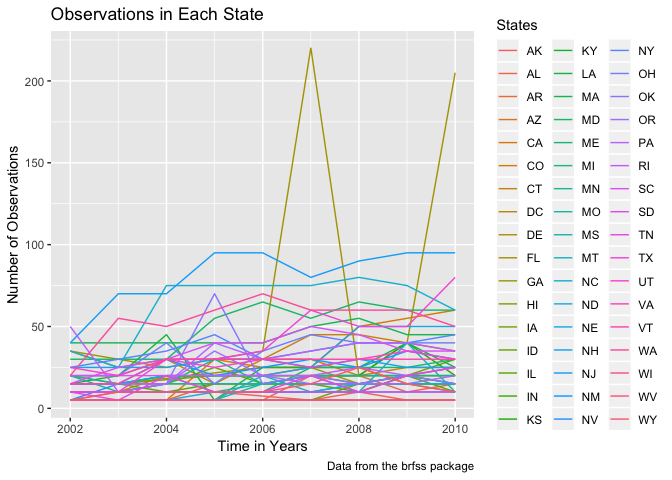
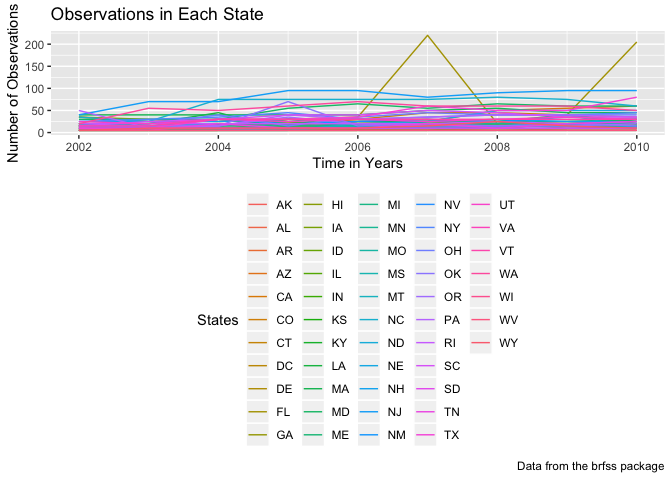
Last edits to plots

diff --git a/p8105_hw3_kb2977.md b/p8105_hw3_kb2977.md
@@ -91,7 +91,8 @@ state_plot = brfss_data %>%
         y = "Number of Observations",
         caption = "Data from the brfss package"
     ) +
-    scale_color_hue(name = "States")
+    scale_color_hue(name = "States") +
+    theme(legend.position = "bottom")
 state_plot
 ```
 
@@ -109,7 +110,15 @@ table_data =
   summarize(mean_ex = mean(data_value),
             sd_ex = sd(data_value)) %>%
   knitr::kable(digits = 1)
+
+table_data
 ```
+
+|  year|  mean\_ex|  sd\_ex|
+|-----:|---------:|-------:|
+|  2002|      24.0|     4.5|
+|  2006|      22.5|     4.0|
+|  2010|      22.7|     3.6|
 
 -   Below is a five-panel plot that shows, for each response category separately, the distribution of state-level averages over time.
 
